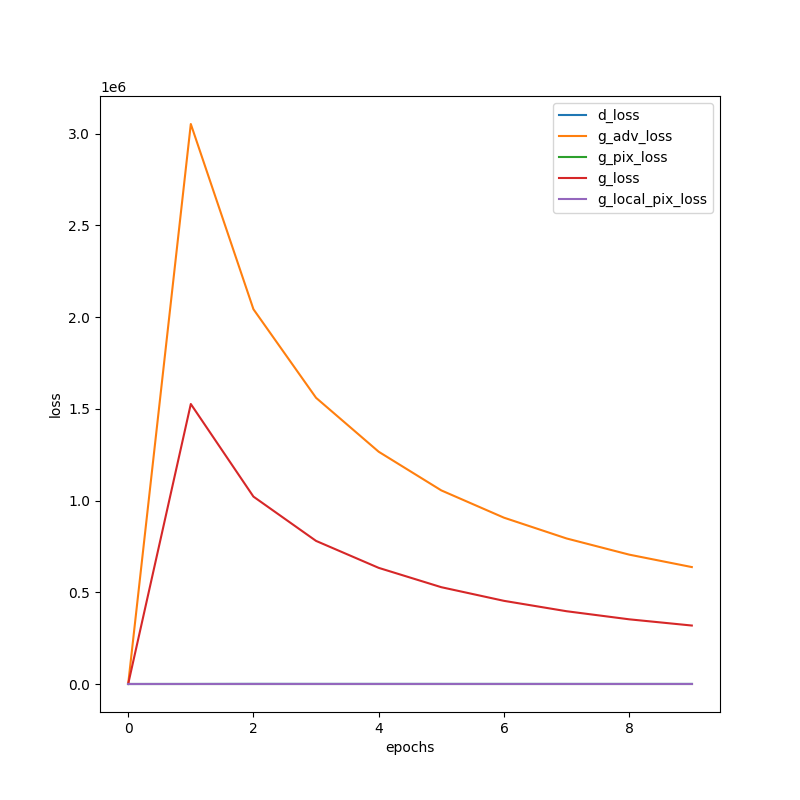
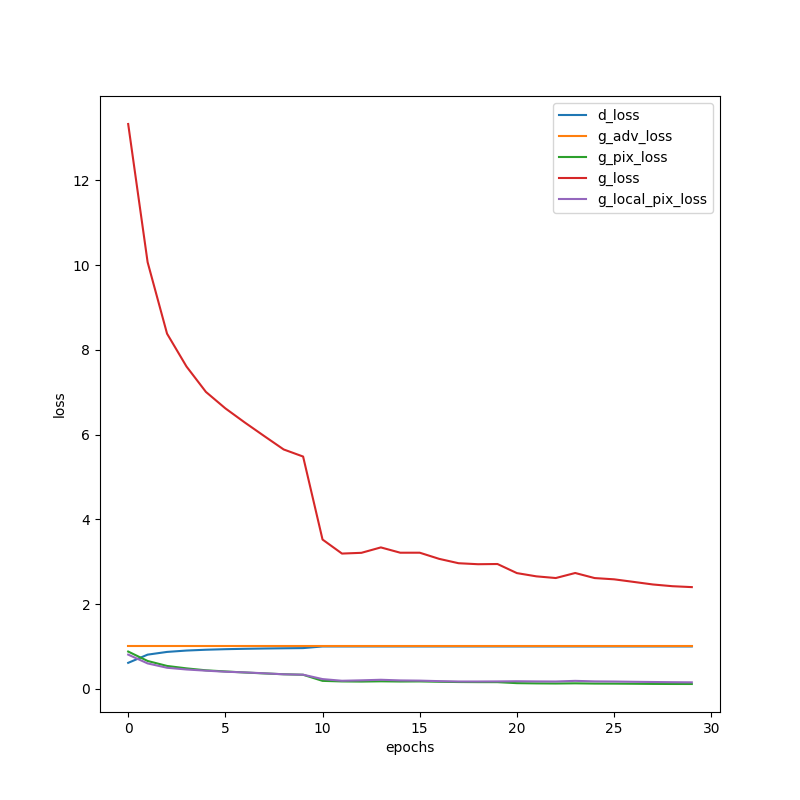
small change

diff --git a/code/mix-lc/train.py b/code/mix-lc/train.py
@@ -11,18 +11,21 @@ import config
 
 LEARNING_RATE = 1e-3
 BATCH_SIZE = 1
-PRETRAIN_EPOCH = 100
 ALPHA = 0.5
 PIX_LAMBDA = 10
 LOCAL_PIX_LAMBDA = 5
 
 use_ba = False
+use_mse = True
 
 start = config.start
 size = config.size
 bz = config.buffer_zone
 scaler = torch.cuda.amp.GradScaler()
-adv_loss = nn.MSELoss() # nn.BCEWithLogitsLoss() # nn.MSELoss()
+if use_mse:
+    adv_loss = nn.MSELoss() 
+else:
+    adv_loss = nn.BCEWithLogitsLoss()
 pixel_loss = nn.L1Loss()
 device = "cuda" if torch.cuda.is_available() else "cpu"
 
@@ -86,11 +89,17 @@ class Train:
             # Discriminator_loss
             
             d_fake_ab_loss = adv_loss(d_fake_ab, torch.zeros_like(d_fake_ab))
+            d_real_a_loss = adv_loss(d_real_a, torch.ones_like(d_real_a))
+            if use_mse:
+                d_fake_ab_loss = torch.sigmoid(d_fake_ab_loss)
+                d_real_a_loss = torch.sigmoid(d_real_a_loss)
+
             if use_ba:
                 d_fake_ba_loss = adv_loss(d_fake_ba, torch.zeros_like(d_fake_ba))
-            d_real_a_loss = adv_loss(d_real_a, torch.ones_like(d_real_a))
-            if use_ba:
                 d_real_b_loss = adv_loss(d_real_b, torch.ones_like(d_real_b))
+                if use_mse:
+                    d_fake_ba_loss = torch.sigmoid(d_fake_ba_loss)
+                    d_real_b_loss = torch.sigmoid(d_real_b_loss)
 
             if use_ba:
                 d_loss = (d_fake_ab_loss + d_fake_ba_loss + d_real_a_loss + d_real_b_loss) / 4
@@ -111,19 +120,23 @@ class Train:
                 rgb_ba_fake = self.generator(rgb_b, lc_ab)
 
             d_fake_ab = self.discriminator(rgb_ab_fake)
+            d_fake_ab_loss = adv_loss(d_fake_ab, torch.zeros_like(d_fake_ab))
+            g_adv_ab_loss = adv_loss(d_fake_ab_loss, torch.ones_like(d_fake_ab_loss))
+            if use_mse:
+                d_fake_ab_loss = torch.sigmoid(d_fake_ab_loss)
+                g_adv_ab_loss = torch.sigmoid(g_adv_ab_loss)
+
             if use_ba:
                 d_fake_ba = self.discriminator(rgb_ba_fake)
-        
-
-            d_fake_ab_loss = adv_loss(d_fake_ab, torch.zeros_like(d_fake_ab))
-            if use_ba:
                 d_fake_ba_loss = adv_loss(d_fake_ba, torch.zeros_like(d_fake_ba))
-
-            g_adv_ab_loss = adv_loss(d_fake_ab_loss, torch.ones_like(d_fake_ab_loss))
-            if use_ba:
                 g_adv_ba_loss = adv_loss(d_fake_ba_loss, torch.ones_like(d_fake_ba_loss))
-            
+                if use_mse:
+                    d_fake_ba_loss = torch.sigmoid(d_fake_ba_loss)
+                    g_adv_ba_loss = torch.sigmoid(g_adv_ba_loss)
+
+
             g_pix_ab_loss = pixel_loss(rgb_ab_fake, rgb_ab)
+            
             if use_ba:
                 g_pix_ba_loss = pixel_loss(rgb_ba_fake, rgb_ab)
 

diff --git a/code/mix-lc/README.md b/code/mix-lc/README.md
@@ -42,9 +42,28 @@ I am not sure weather to use local and global discriminators.
 
 For starts I will just use the global discriminator.
 
-### Training
+## Training
 
-### Results
+### Parameters
+
+LEARNING_RATE = 1e-3
+ALPHA = 0.5
+PIX_LAMBDA = 10
+LOCAL_PIX_LAMBDA = 5
+
+### Loss
+
+the adversarial loss was BCEWithLogitsLoss
+the pixel loss was L1Loss
+
+I used a "local rgb" loss where the targeted area plus a small border of 12 pixels was used pixel wise. That is in the gen_rgb_ab image the "b part" was compared especally pixel wise.
+I do this because I think otherwise just copying the rgb_a image is something the model might do.
+
+### Problems
+
+I had some problems with memory and thus had the use_ba parameter, with it set to false I can train on one batch on my machine. I can set it to true on colab. I was also having some issues with a lot of NANs, I suspect it has something to do with the autocasting and thus I removed it in this experiment.
+
+## Results
 
 After one epoch
 
